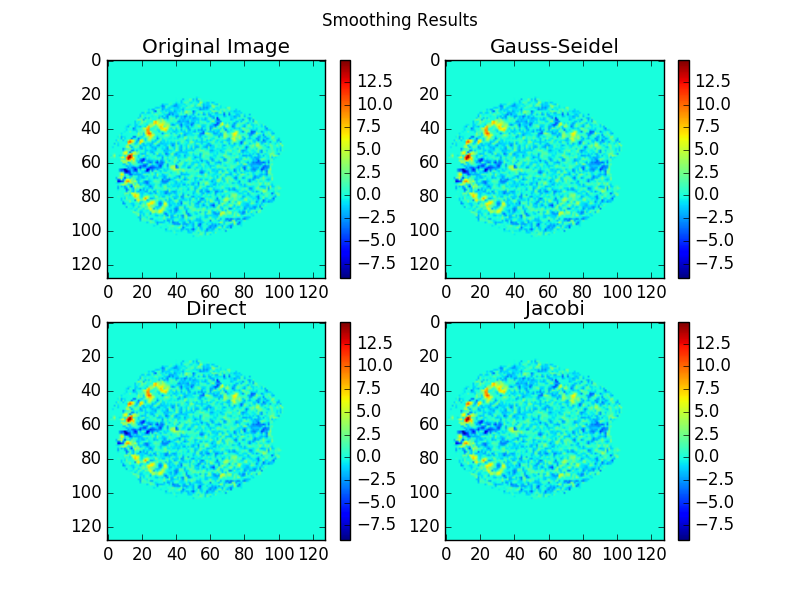
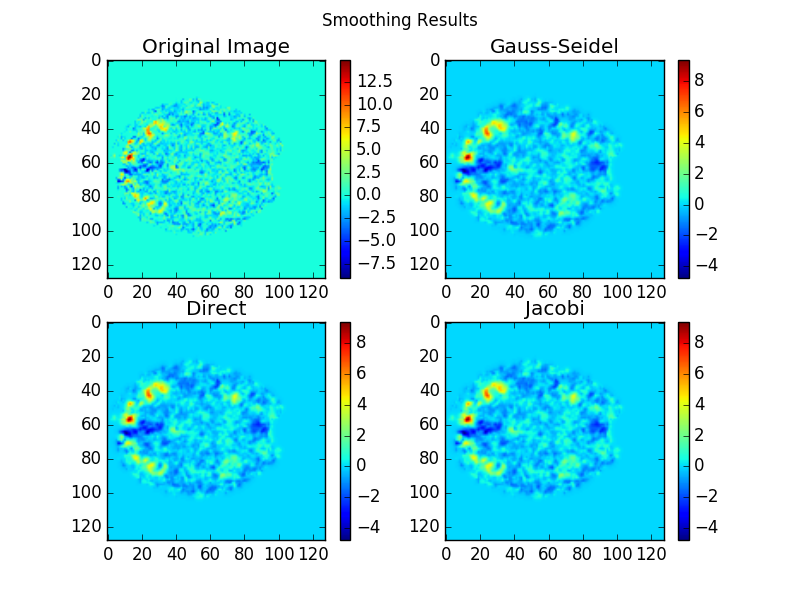
Fix bug in Ex08

diff --git a/exercises/exercises08/code/admm.py b/exercises/exercises08/code/admm.py
@@ -16,14 +16,13 @@ from copy import deepcopy
 import matplotlib.pyplot as plt
 import matplotlib.image as mpimg
 
-
 import reader
 
 import pdb
 
 #temporary dummy function
 def calc_gamma():
-    return 0.1
+    return 1.0
 
 def sign(x):
     """Return +1 if x >= 0, and -1 otherwise"""
@@ -126,7 +125,7 @@ def main(fname):
     A = lam * D.T @ D + ident
 
     orig = np.reshape(y, (edgeSz,edgeSz))
-    admm_smooth = np.reshape(y, (edgeSz,edgeSz))
+    admm_smooth = np.reshape(sol, (edgeSz,edgeSz))
 
     plt.figure(1)
     plt.suptitle("Smoothing Results")

diff --git a/exercises/exercises08/code/solvers.py b/exercises/exercises08/code/solvers.py
@@ -23,7 +23,7 @@ import code
 import pdb
 
 tol = 1e-13
-globallambda = 0.2
+globallambda = 1.0
 
 def pred_shape(mat):
     """If mat is a data matrix, return the shape of its predictor."""
